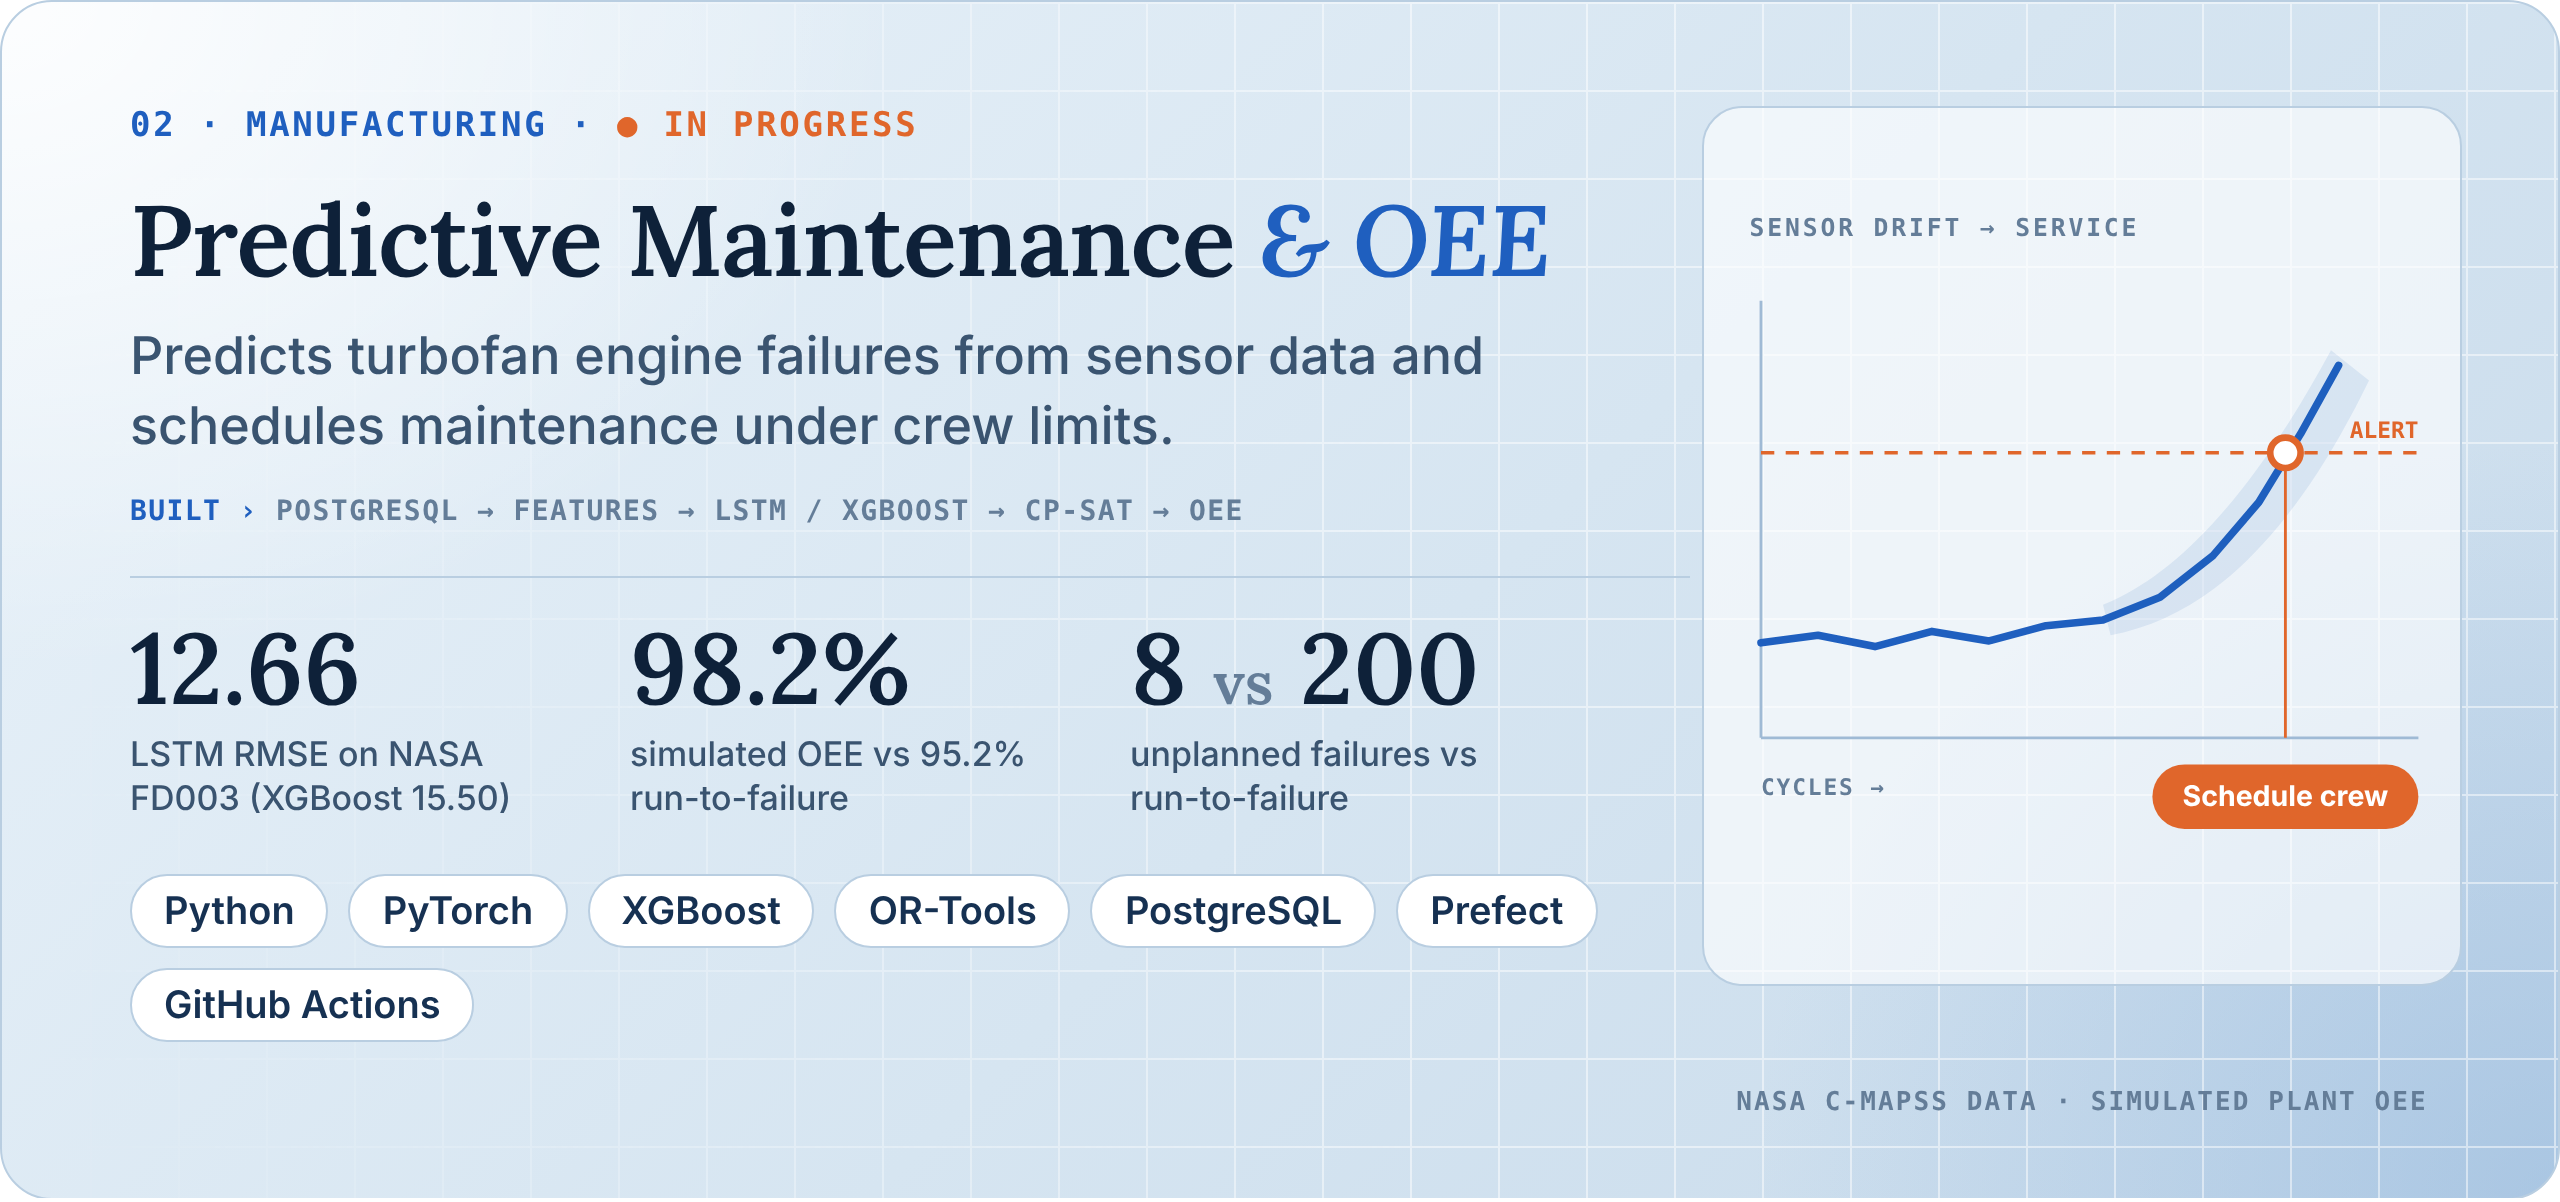
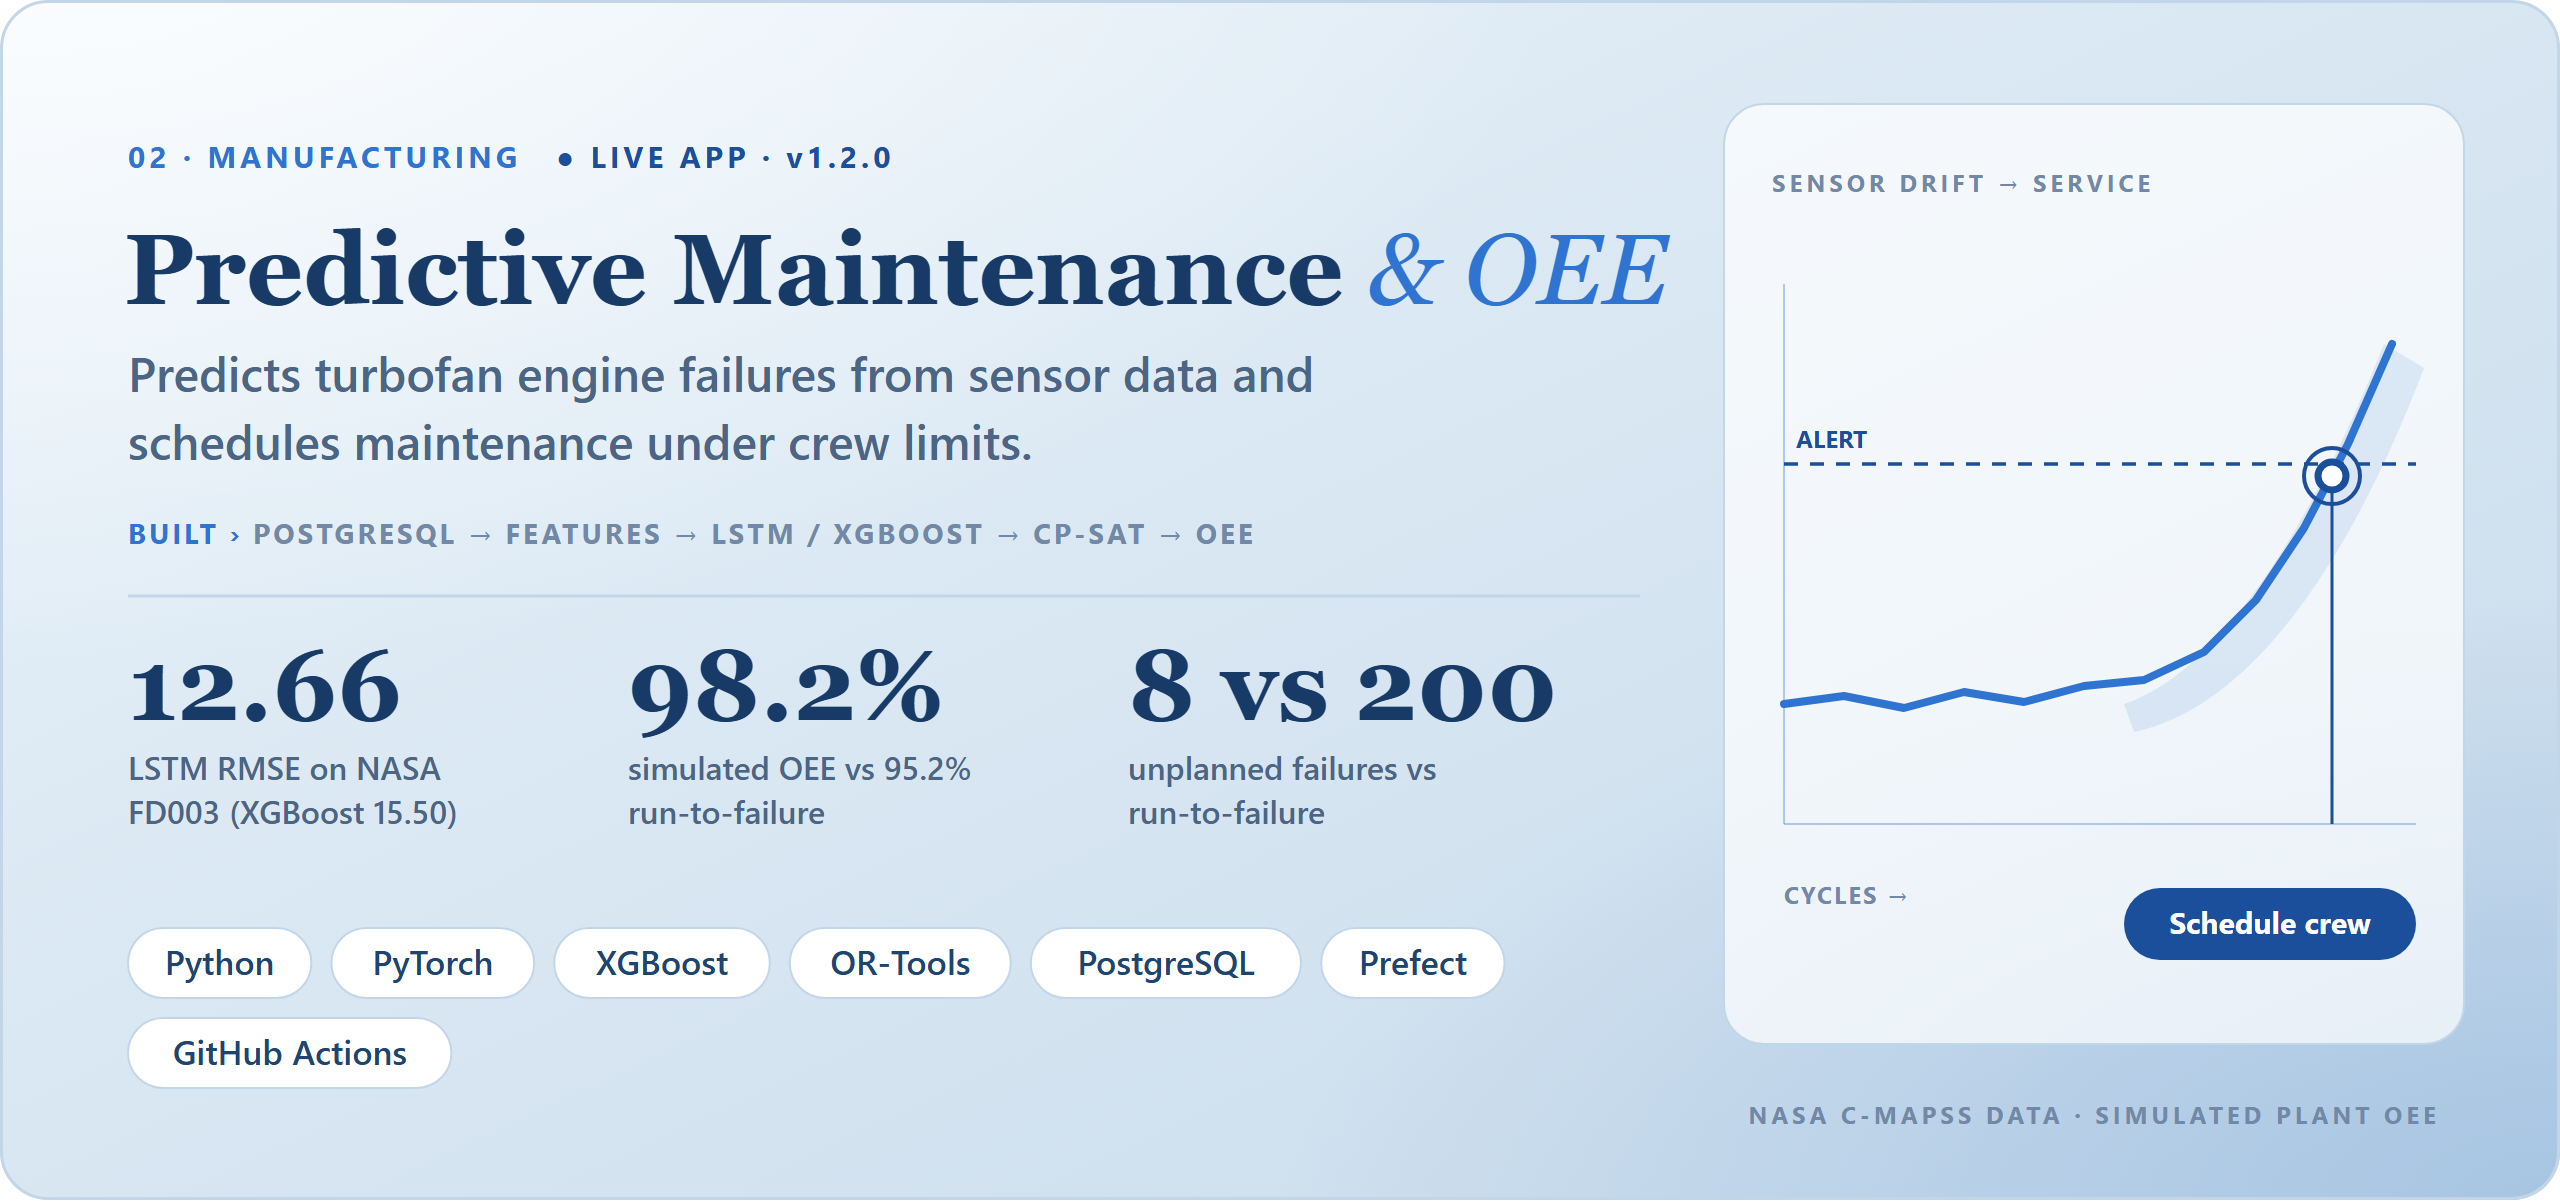
Predictive Maintenance card: released (live app, v1.2.0) instead of in progress; add Live app badge

diff --git a/README.md b/README.md
@@ -28,9 +28,10 @@
 <a href="https://krishna6116.github.io/CareOps-AI/"><img src="https://img.shields.io/badge/Live_demo-krishna6116.github.io-1B4F9C?style=for-the-badge&labelColor=173A66&logo=githubpages&logoColor=white" alt="CareOps AI live demo"></a>
 </p>
 
-<a href="https://github.com/krishna6116/Predictive-Maintenance-OEE"><img src="./assets/project-predictive-maintenance-oee.svg" width="100%" alt="Predictive Maintenance & OEE (in progress): predicts turbofan engine failures from NASA C-MAPSS sensor data and schedules maintenance under crew limits. LSTM RMSE 12.66 on FD003 vs XGBoost 15.50; simulated OEE 98.2% vs 95.2% run-to-failure; 8 vs 200 unplanned failures. Python, PyTorch, XGBoost, OR-Tools, PostgreSQL, Prefect, GitHub Actions."></a>
+<a href="https://github.com/krishna6116/Predictive-Maintenance-OEE"><img src="./assets/project-predictive-maintenance-oee.svg" width="100%" alt="Predictive Maintenance & OEE: predicts turbofan engine failures from NASA C-MAPSS sensor data and schedules maintenance under crew limits. LSTM RMSE 12.66 on FD003 vs XGBoost 15.50; simulated OEE 98.2% vs 95.2% run-to-failure; 8 vs 200 unplanned failures. Python, PyTorch, XGBoost, OR-Tools, PostgreSQL, Prefect, GitHub Actions."></a>
 <p align="center">
 <a href="https://github.com/krishna6116/Predictive-Maintenance-OEE"><img src="https://img.shields.io/badge/Repository-Predictive_Maintenance_%26_OEE-2F74D0?style=for-the-badge&labelColor=173A66&logo=github&logoColor=white" alt="Predictive Maintenance and OEE repository"></a>
+<a href="https://predictive-maintenance-oee.streamlit.app"><img src="https://img.shields.io/badge/Live_app-predictive--maintenance--oee-1B4F9C?style=for-the-badge&labelColor=173A66&logo=streamlit&logoColor=white" alt="Predictive Maintenance and OEE live app"></a>
 </p>
 
 <a href="https://github.com/krishna6116/Medical-Device-Quality-Copilot"><img src="./assets/project-medical-device-copilot.svg" width="100%" alt="Medical Device Quality Copilot: AI assistant that investigates medical device field failures in public FDA data (openFDA MAUDE reports and recalls), cites the exact reports and remembers each investigation. Claude Haiku 5.5 answered 78/80 pre-registered questions for $0.10 vs Opus 5.5 76/80 for $4.01; 15 of 38 recalls preceded by an early-warning signal (14% base rate); pacemaker battery reports from recalled families 97.5% vs 77.9% before. Python, Claude API, PostgreSQL, openFDA, scikit-learn, Streamlit, Power BI, pytest, GitHub Actions."></a>
